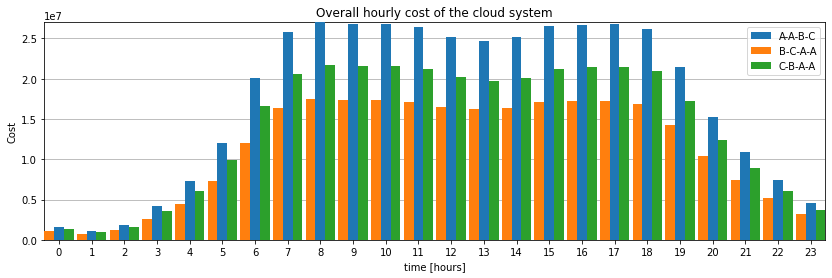
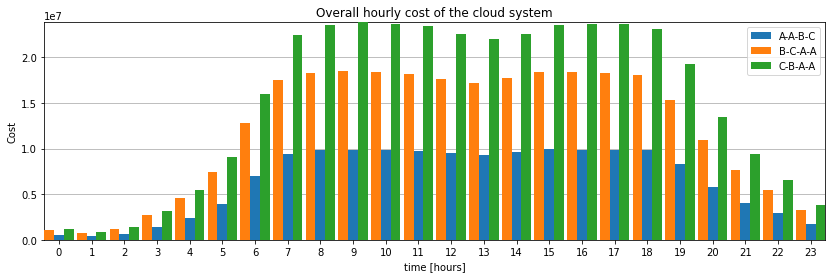
lab2 ex4b solve costs

Changed region(s): [[0.0312, 0.0863, 1.0, 0.8058], [0.0625, 0.8058, 0.125, 0.8633], [0.125, 0.8058, 0.1562, 0.8345]]

diff --git a/Lab2/ex4b_sim.py b/Lab2/ex4b_sim.py
@@ -13,9 +13,7 @@ np.random.seed(42)
 if __name__ == '__main__':
     
     f_av_arrival, f_f = sim.dailySimFunctions()
-
-    # simulate ABBC
-        
+    
     # Micro Data Center (MDC)
     SERVICE = 1000
     ARRIVAL = 500
@@ -32,6 +30,7 @@ if __name__ == '__main__':
     # SIMULATION PARAMS
     SIM_TIME = 86400000 # 24 hours simulation
     
+    #%% ABBC
     # data storage object
     data = sim.Measure()
     data_cloud = sim.Measure()
@@ -54,7 +53,8 @@ if __name__ == '__main__':
     print(f'Loss Probability = {data_cloud.toCloud/data.arr}')
     print(f'Average number of users = {(data.ut + data_cloud.ut)/time}')
     print(f'Total Operational Cost = {sum(s.FogBusyTime * s.FogNodesCosts) + sum(s.CloudServerBusyTime * s.CloudServerCosts)}')
-    
+    print(f'Micro Data Center Operational Cost = {sum(s.FogBusyTime * s.FogNodesCosts)}')
+    print(f'Cloud Data Center Operational Cost = {sum(s.CloudServerBusyTime * s.CloudServerCosts)}')
     
     # Average queueing delay with progressively faster MDC service
     costs_hourlyABBC = []
@@ -100,6 +100,8 @@ if __name__ == '__main__':
     print(f'Loss Probability = {data_cloud.toCloud/data.arr}')
     print(f'Average number of users = {(data.ut + data_cloud.ut)/time}')
     print(f'Total Operational Cost = {sum(s.FogBusyTime * s.FogNodesCosts) + sum(s.CloudServerBusyTime * s.CloudServerCosts)}')
+    print(f'Micro Data Center Operational Cost = {sum(s.FogBusyTime * s.FogNodesCosts)}')
+    print(f'Cloud Data Center Operational Cost = {sum(s.CloudServerBusyTime * s.CloudServerCosts)}')
 
     # Average queueing delay with progressively faster MDC service
     costs_hourlyAABC = []
@@ -145,7 +147,8 @@ if __name__ == '__main__':
     print(f'Loss Probability = {data_cloud.toCloud/data.arr}')
     print(f'Average number of users = {(data.ut + data_cloud.ut)/time}')
     print(f'Total Operational Cost = {sum(s.FogBusyTime * s.FogNodesCosts) + sum(s.CloudServerBusyTime * s.CloudServerCosts)}')
-    
+    print(f'Micro Data Center Operational Cost = {sum(s.FogBusyTime * s.FogNodesCosts)}')
+    print(f'Cloud Data Center Operational Cost = {sum(s.CloudServerBusyTime * s.CloudServerCosts)}')
     
     # Average queueing delay with progressively faster MDC service
     costs_hourlyABCC = []
@@ -180,7 +183,7 @@ if __name__ == '__main__':
                       SERVICE_CLOUD,f_av_arrival, f_f)
     
     # insert constant service rate for all fog Nodes
-    s.CloudServerServTime = [500, 1000, 100, 100]
+    s.CloudServerServTime = [500, 1000, 200, 200]
     s.CloudServerCosts = [0.4, 0.1, 1, 1]
     
     print_everything = False
@@ -192,7 +195,8 @@ if __name__ == '__main__':
     print(f'Loss Probability = {data_cloud.toCloud/data.arr}')
     print(f'Average number of users = {(data.ut + data_cloud.ut)/time}')
     print(f'Total Operational Cost = {sum(s.FogBusyTime * s.FogNodesCosts) + sum(s.CloudServerBusyTime * s.CloudServerCosts)}')
-    
+    print(f'Micro Data Center Operational Cost = {sum(s.FogBusyTime * s.FogNodesCosts)}')
+    print(f'Cloud Data Center Operational Cost = {sum(s.CloudServerBusyTime * s.CloudServerCosts)}')
 
     costs_hourlyBCAA = []
     for i in range(0,24):
@@ -213,6 +217,7 @@ if __name__ == '__main__':
         delay_hourly_avg /= hour_count
         delay_hourly_avgsBCAA.append(delay_hourly_avg)
     
+    
     #%% CBAA
     
     # data storage object
@@ -225,7 +230,7 @@ if __name__ == '__main__':
                       SERVICE_CLOUD,f_av_arrival, f_f)
     
     # insert constant service rate for all fog Nodes
-    s.CloudServerServTime = [1000, 500, 100, 100]
+    s.CloudServerServTime = [1000, 500, 200, 200]
     s.CloudServerCosts = [0.1, 0.4, 1, 1]
     
     print_everything = False
@@ -237,7 +242,8 @@ if __name__ == '__main__':
     print(f'Loss Probability = {data_cloud.toCloud/data.arr}')
     print(f'Average number of users = {(data.ut + data_cloud.ut)/time}')
     print(f'Total Operational Cost = {sum(s.FogBusyTime * s.FogNodesCosts) + sum(s.CloudServerBusyTime * s.CloudServerCosts)}')
-    
+    print(f'Micro Data Center Operational Cost = {sum(s.FogBusyTime * s.FogNodesCosts)}')
+    print(f'Cloud Data Center Operational Cost = {sum(s.CloudServerBusyTime * s.CloudServerCosts)}')
 
     costs_hourlyCBAA = []
     for i in range(0,24):
